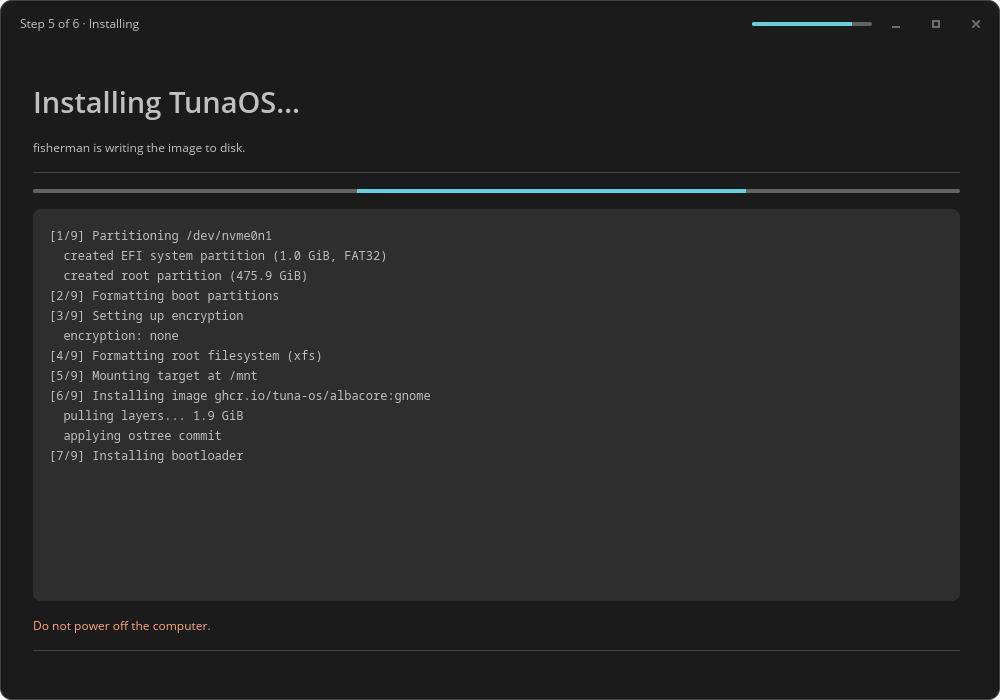
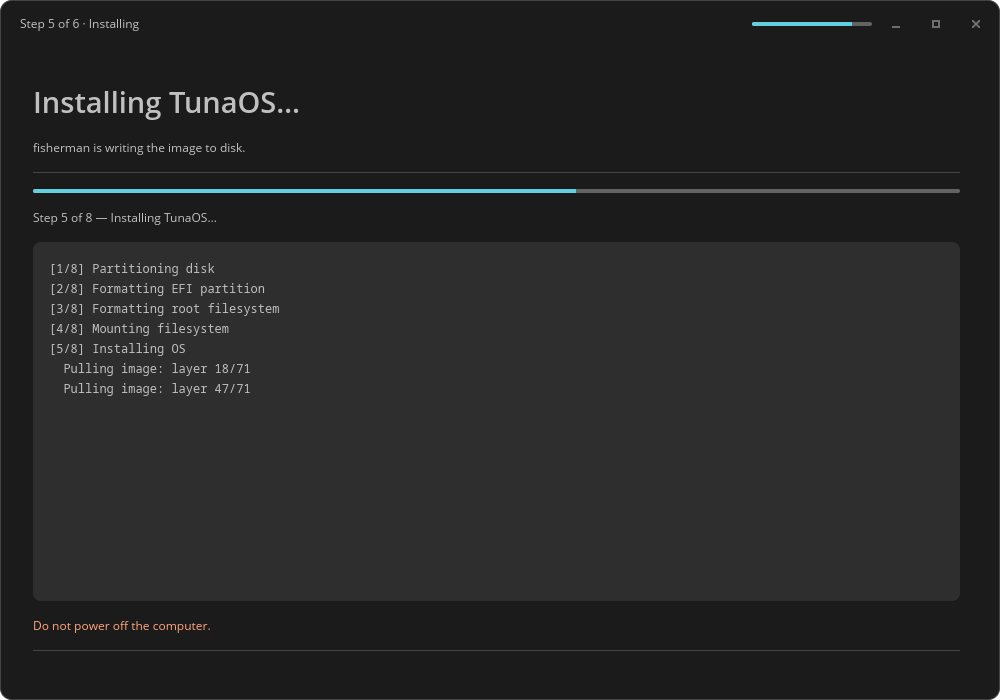
docs: refresh cross-frontend walkthrough [skip ci]

Changed region(s): [[0.031, 0.27, 0.434, 0.66], [0.589, 0.27, 0.744, 0.3], [0.248, 0.48, 0.279, 0.51]]

diff --git a/docs/walkthrough/README.md b/docs/walkthrough/README.md
@@ -75,9 +75,9 @@ libcosmic / iced (Rust). Source: `frontends/cosmic/`.
 | <img src="cosmic/02-disk.png" width="360"> | **disk**  <br><sub>Select a disk Everything on the disk you pick will be erased. /dev/nvme0n1 476.9G · SAMSUNG MZVL2512HCJQ · nvme /dev/sda 1.8T · WDC WD20SPZX</sub> |
 | <img src="cosmic/03-options.png" width="360"> | **options**  <br><sub>Options Sensible defaults are already chosen. Change them only if you need to. System Computer name ubuntu Filesystem xfs Encryption Disk en</sub> |
 | <img src="cosmic/04-confirm.png" width="360"> | **confirm**  <br><sub>Confirm installation The last screen before anything is written. Everything on /dev/nvme0n1 will be erased. This cannot be undone.  Summary </sub> |
-| <img src="cosmic/05-installing.png" width="360"> | **installing**  <br><sub>Installing TunaOS… fisherman is writing the image to disk. [1/9] Partitioning /dev/nvme0n1
-  created EFI system partition (1.0 GiB, FAT32)
- </sub> |
+| <img src="cosmic/05-installing.png" width="360"> | **installing**  <br><sub>Installing TunaOS… fisherman is writing the image to disk. [1/8] Partitioning disk
+[2/8] Formatting EFI partition
+[3/8] Formatting root file</sub> |
 | <img src="cosmic/06-done.png" width="360"> | **done**  <br><sub>TunaOS is installed Remove the installation media and restart the computer. Restart now Close</sub> |
 
 ## Niri
